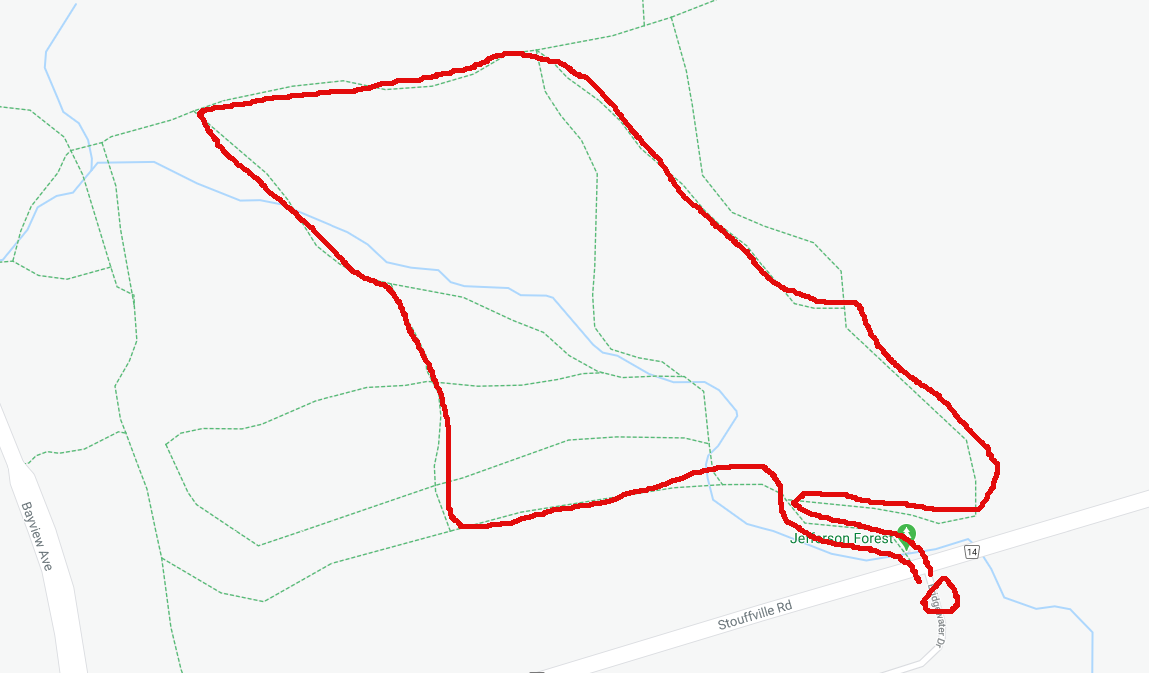
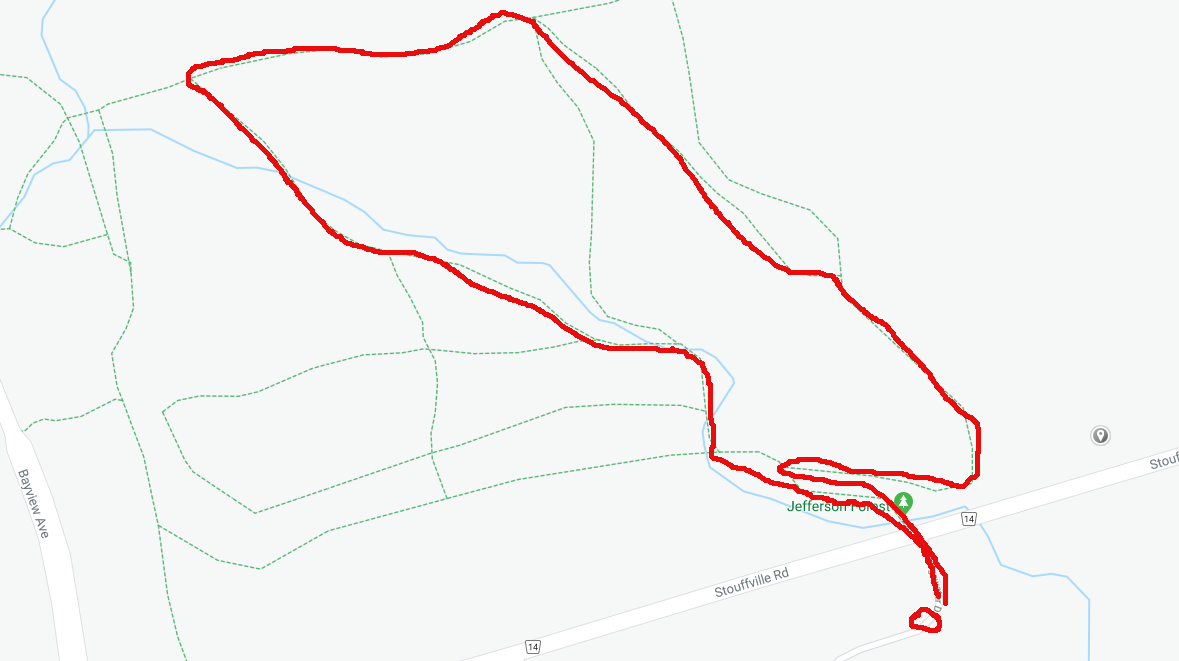
update

diff --git a/_posts/york/2020-05-16-hiking-jefferson-route2.md b/_posts/york/2020-05-16-hiking-jefferson-route2.md
@@ -1,0 +1,23 @@
+---
+layout: post
+title:  "Jefferson Forest - Stouffville Entrance"
+date:   2020-05-23 18:30:52 -0400
+img: jefferson.png
+categories: York
+tags: Richmond_Hill
+---
+
+![Linux]({{site.baseurl}}/images/jefferson.png)
+<br>
+<br>
+One of the best places to hike in Richmond Hill is Jefferson Forest. 
+<br>
+<br>
+![Linux]({{site.baseurl}}/images/jefferson1.jpg)
+<br>
+<br>
+![Linux]({{site.baseurl}}/images/jefferson2.jpg)
+<br>
+<br>
+![Linux]({{site.baseurl}}/images/jefferson3.jpg)
+<br>

diff --git a/_posts/york/2020-04-27-hiking-togo.md b/_posts/york/2020-04-27-hiking-togo.md
@@ -16,8 +16,6 @@ German Mills
 ![Linux]({{site.baseurl}}/images/germanmills.png)
 Red Cardinal
 ![Linux]({{site.baseurl}}/images/redcardinal.png)
-Jefferson Forest
-![Linux]({{site.baseurl}}/images/jefferson.png)
 
 
 Countryside Preserve, Uxbridge, ON
